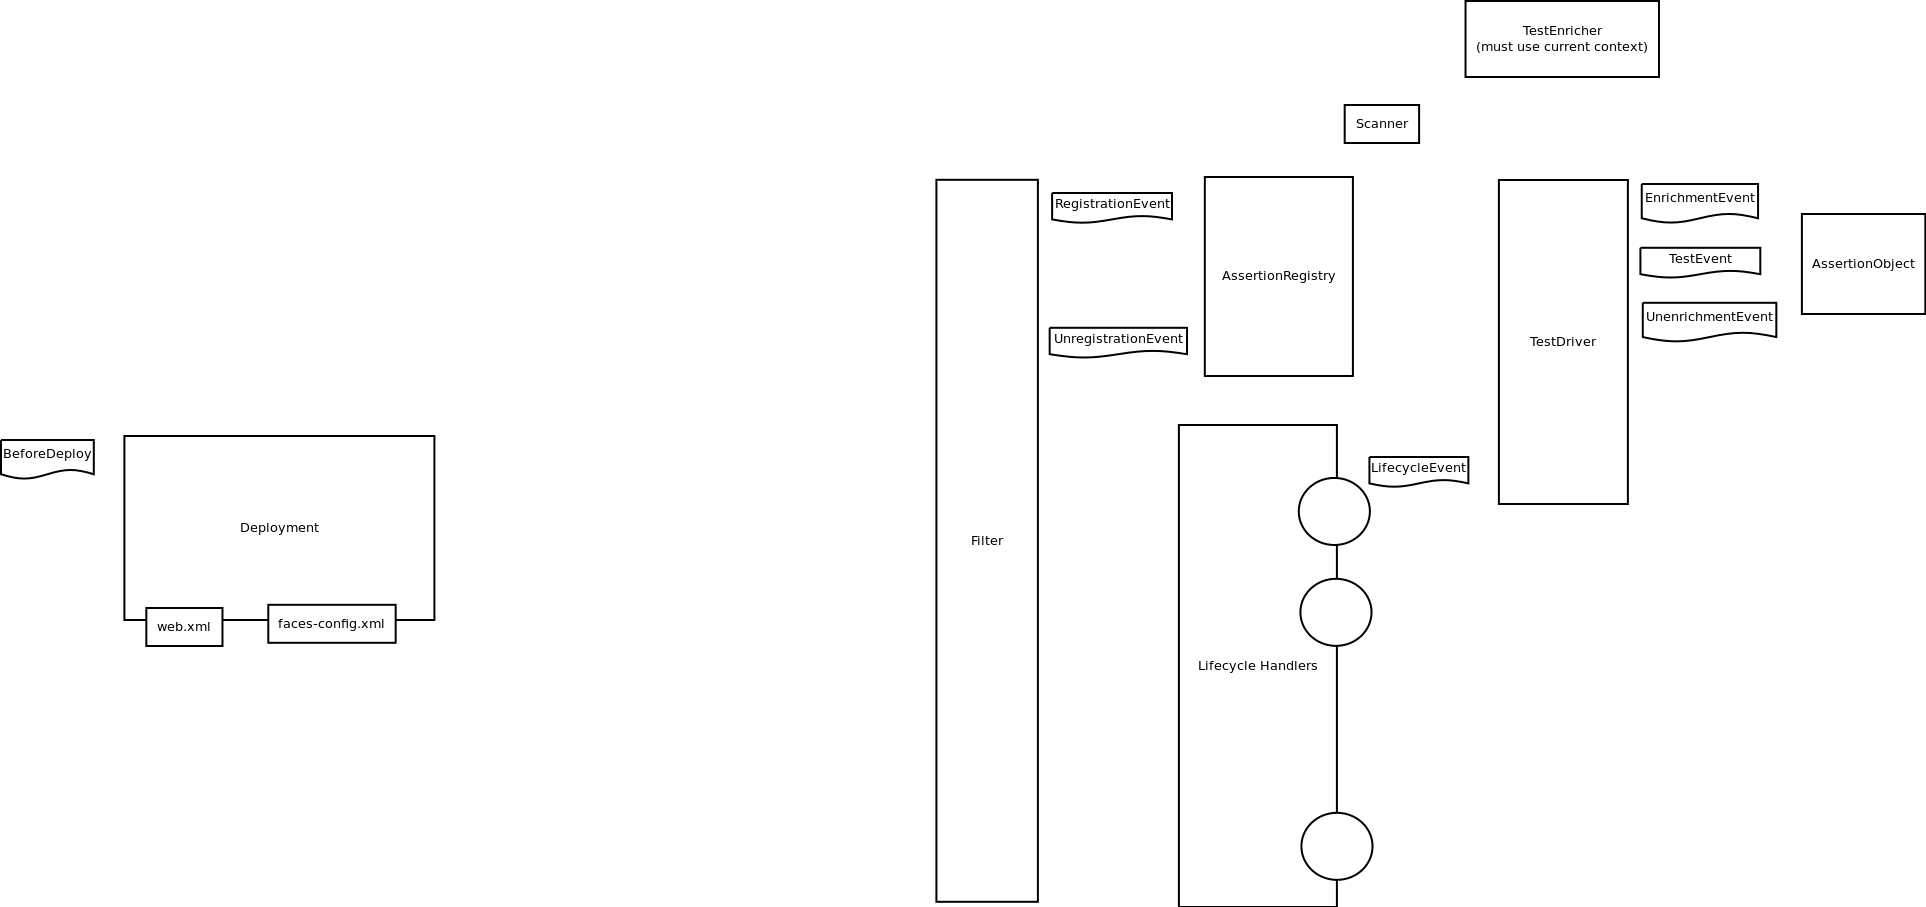
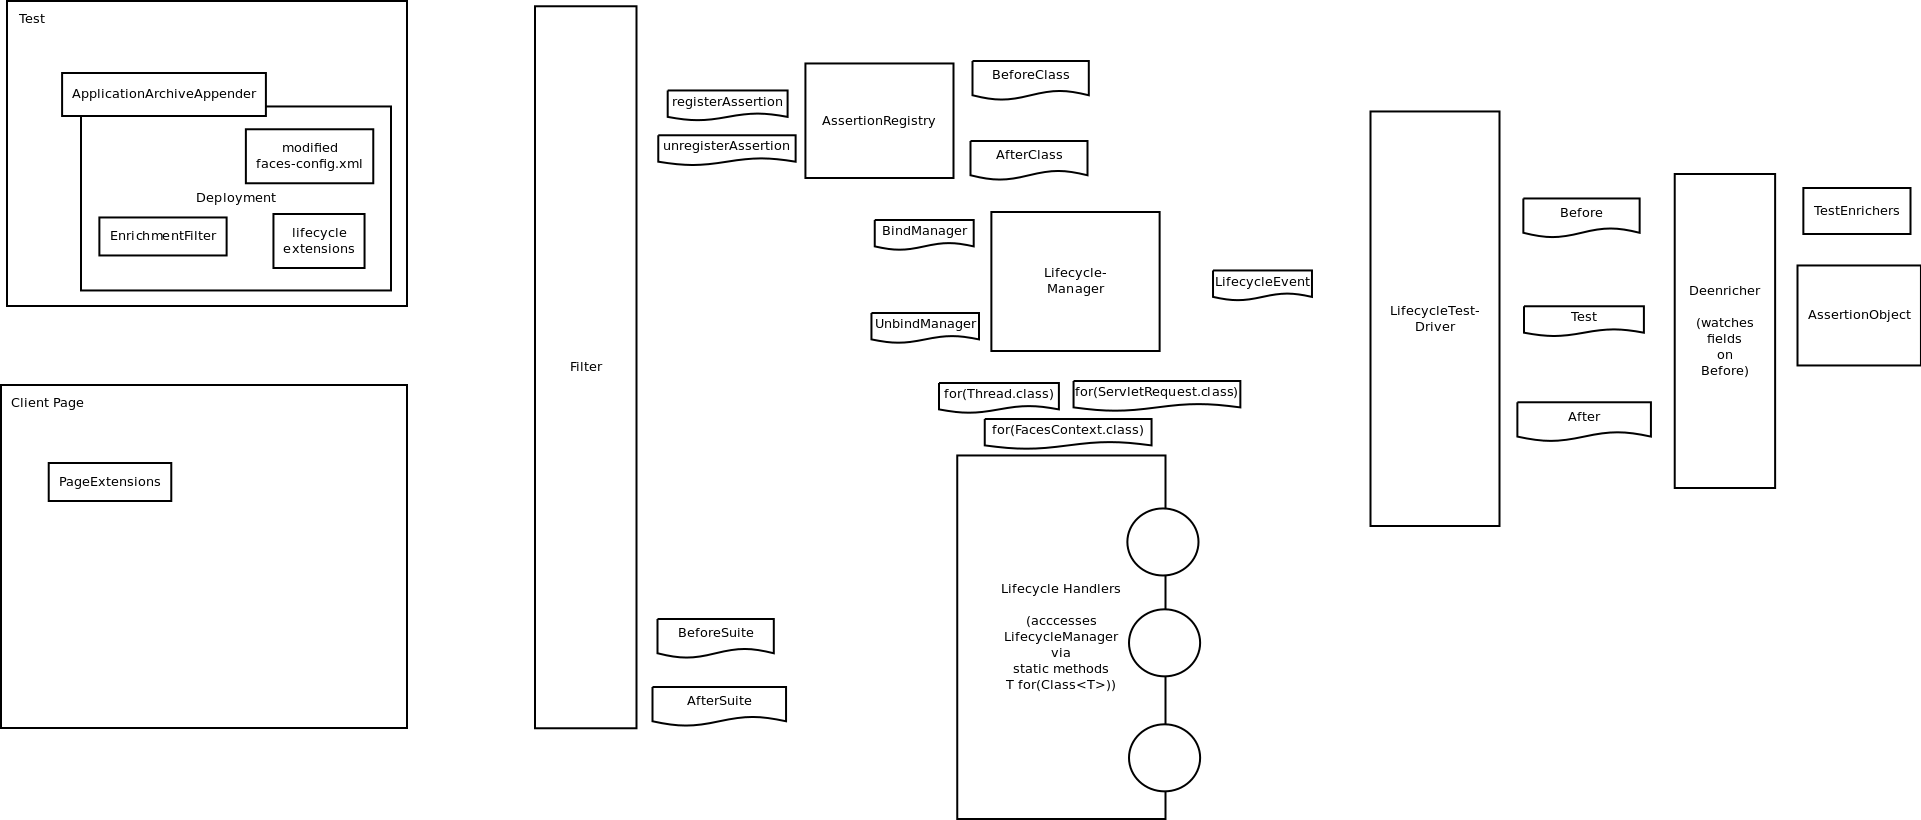
updated enrichment.dia diagram

diff --git a/src/main/java/org/jboss/arquillian/jsfunitng/filter/EnrichmentFilter.java b/src/main/java/org/jboss/arquillian/jsfunitng/filter/EnrichmentFilter.java
@@ -26,12 +26,14 @@ import org.jboss.arquillian.core.spi.ManagerBuilder;
 import org.jboss.arquillian.core.spi.ServiceLoader;
 import org.jboss.arquillian.jsfunitng.AssertionObject;
 import org.jboss.arquillian.jsfunitng.utils.SerializationUtils;
+import org.jboss.arquillian.test.spi.TestMethodExecutor;
 import org.jboss.arquillian.test.spi.event.suite.After;
 import org.jboss.arquillian.test.spi.event.suite.AfterClass;
 import org.jboss.arquillian.test.spi.event.suite.AfterSuite;
 import org.jboss.arquillian.test.spi.event.suite.Before;
 import org.jboss.arquillian.test.spi.event.suite.BeforeClass;
 import org.jboss.arquillian.test.spi.event.suite.BeforeSuite;
+import org.jboss.arquillian.test.spi.event.suite.Test;
 
 @WebFilter(urlPatterns = "/*")
 public class EnrichmentFilter implements Filter {
@@ -76,7 +78,7 @@ public class EnrichmentFilter implements Filter {
                         final AssertionObject assertionObject = SerializationUtils.deserializeFromBase64(requestEnrichment);
                         ManagerBuilder builder = ManagerBuilder.from().extension(Class.forName(DEFAULT_EXTENSION_CLASS));
 
-                        Method testMethod = AssertionObject.class.getMethod("method");
+                        final Method testMethod = AssertionObject.class.getMethod("method");
 
                         manager = builder.create();
                         manager.start();
@@ -86,6 +88,24 @@ public class EnrichmentFilter implements Filter {
                         backupAllFields(assertionObject);
                         manager.fire(new Before(assertionObject, testMethod));
                         backupUpdatedFields(assertionObject);
+                        
+                        manager.fire(new Test(new TestMethodExecutor() {
+                            
+                            @Override
+                            public void invoke(Object... parameters) throws Throwable {
+                                getMethod().invoke(getInstance(), parameters);
+                            }
+                            
+                            @Override
+                            public Method getMethod() {
+                                return testMethod;
+                            }
+                            
+                            @Override
+                            public Object getInstance() {
+                                return assertionObject;
+                            }
+                        }));
 
                         assertionObject.method();
                         assertionObject.beanMethod();
